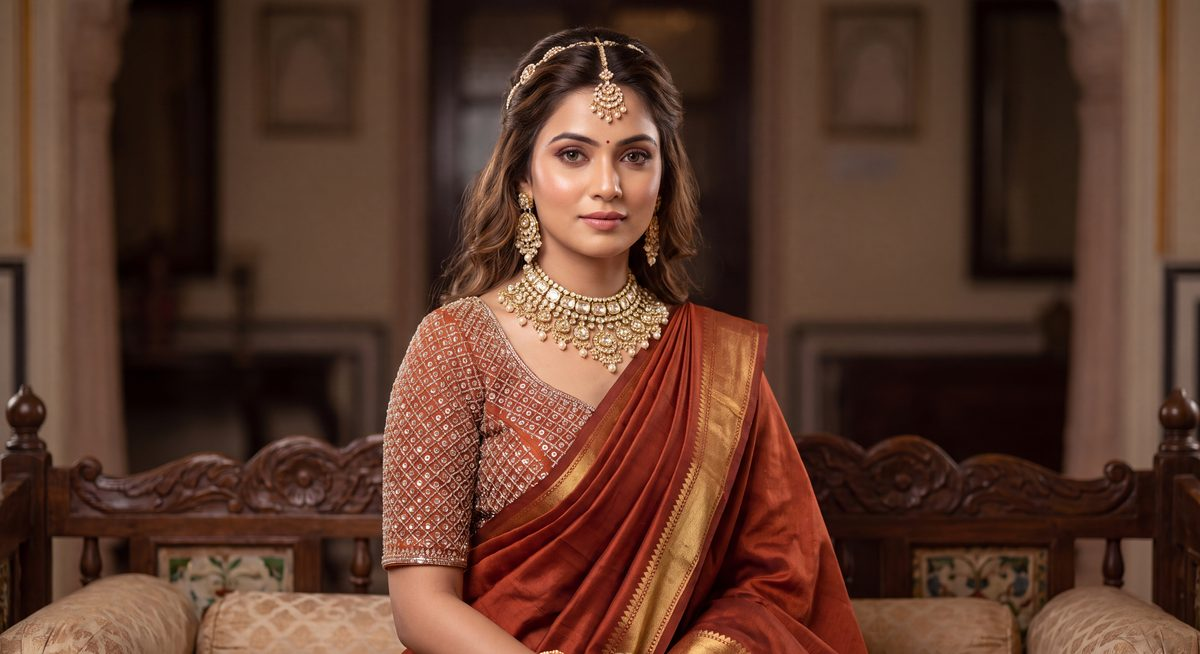
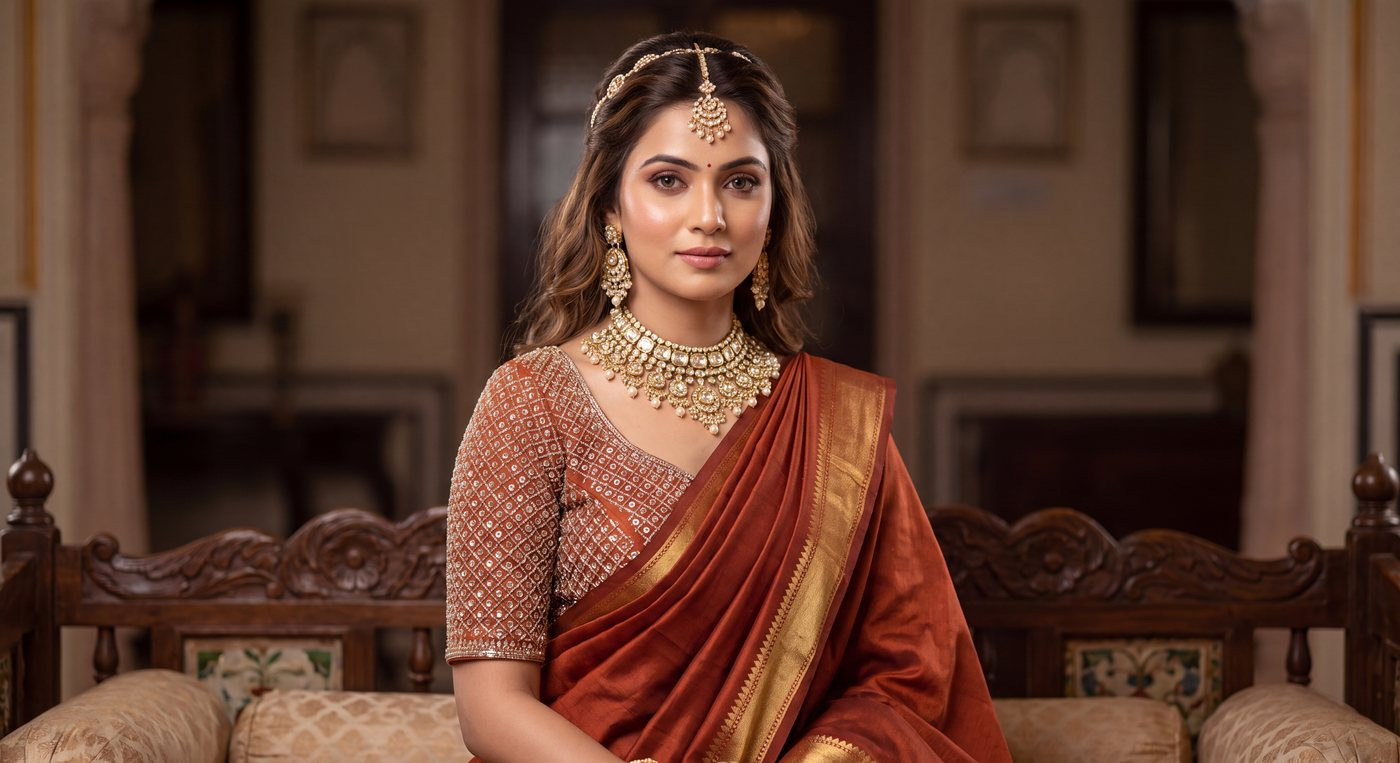
Fix Portrait Pack cover aspect and crowded nav
Cover and previews were squished or cropped wrong because most
pack images are landscape. Match frames to landscape and tighten
the header so menu items fit.

diff --git a/src/components/SiteHeader.tsx b/src/components/SiteHeader.tsx
@@ -22,8 +22,8 @@ export default function SiteHeader() {
   const NAV: NavItem[] = [
     { label: "Gallery", href: section("gallery") },
     { label: "Packs", href: section("packs") },
-    { label: "Prompt PDFs", href: "/prompts" },
-    { label: "Portrait Pack", href: "/portraits" },
+    { label: "Prompts", href: "/prompts" },
+    { label: "Portraits", href: "/portraits" },
     { label: "License", href: section("license") },
     { label: "Shop", href: GUMROAD_HERO, external: true },
   ];
@@ -55,7 +55,7 @@ export default function SiteHeader() {
           EthnicMuse
         </a>
 
-        <nav className="hidden items-center gap-x-10 text-[15px] text-[#86868b] md:flex">
+        <nav className="hidden items-center gap-x-5 text-[14px] text-[#86868b] lg:flex xl:gap-x-8 xl:text-[15px]">
           {NAV.map((item) => (
             <a
               key={item.label}
@@ -74,7 +74,7 @@ export default function SiteHeader() {
 
         <button
           type="button"
-          className="inline-flex min-h-11 min-w-11 items-center justify-center rounded-full border border-[#d2d2d7] bg-white text-[#1d1d1f] md:hidden"
+          className="inline-flex min-h-11 min-w-11 items-center justify-center rounded-full border border-[#d2d2d7] bg-white text-[#1d1d1f] lg:hidden"
           aria-label={menuOpen ? "Close menu" : "Open menu"}
           aria-expanded={menuOpen}
           onClick={() => setMenuOpen((v) => !v)}
@@ -107,7 +107,7 @@ export default function SiteHeader() {
       </div>
 
       {menuOpen && (
-        <div className="border-t border-[#d2d2d7] bg-[#ffffff]/98 px-4 py-4 md:hidden">
+        <div className="border-t border-[#d2d2d7] bg-[#ffffff]/98 px-4 py-4 lg:hidden">
           <nav className="flex flex-col gap-1">
             {NAV.map((item) => (
               <a

diff --git a/src/app/portraits/page.tsx b/src/app/portraits/page.tsx
@@ -100,14 +100,14 @@ export default function PortraitsPage() {
             </div>
 
             <div
-              className="relative overflow-hidden rounded-3xl border border-[#e8e8ed] bg-[#f5f5f7] shadow-[0_16px_50px_rgba(0,0,0,0.1)]"
+              className="relative aspect-[16/10] overflow-hidden rounded-3xl border border-[#e8e8ed] bg-[#f5f5f7] shadow-[0_16px_50px_rgba(0,0,0,0.1)]"
             >
               <Image
                 src="/portraits/cover.jpg"
                 alt="EthnicMuse Saree Portrait Pack cover"
-                width={1200}
-                height={1200}
-                className="h-auto w-full select-none"
+                fill
+                className="object-cover select-none"
+                sizes="(max-width: 768px) 100vw, 45vw"
                 priority
               />
               <div className="pointer-events-none absolute inset-0 bg-gradient-to-t from-[#1d1d1f]/25 via-transparent to-transparent" />
@@ -138,7 +138,7 @@ export default function PortraitsPage() {
               {PREVIEWS.map((preview, index) => (
                 <figure
                   key={preview.src}
-                  className="relative aspect-[4/5] overflow-hidden rounded-2xl border border-[#e8e8ed] bg-white shadow-[0_8px_28px_rgba(0,0,0,0.06)]"
+                  className="relative aspect-[3/2] overflow-hidden rounded-2xl border border-[#e8e8ed] bg-white shadow-[0_8px_28px_rgba(0,0,0,0.06)]"
                     >
                   <Image
                     src={preview.src}
